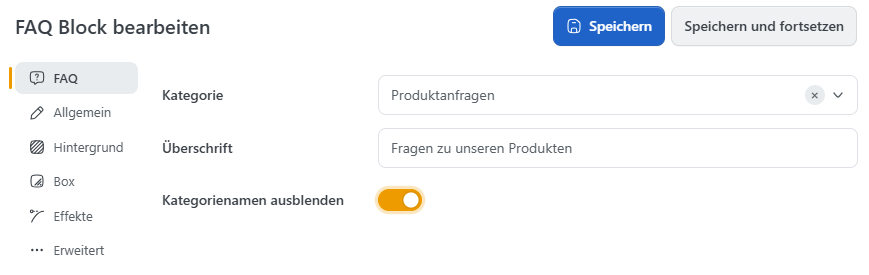
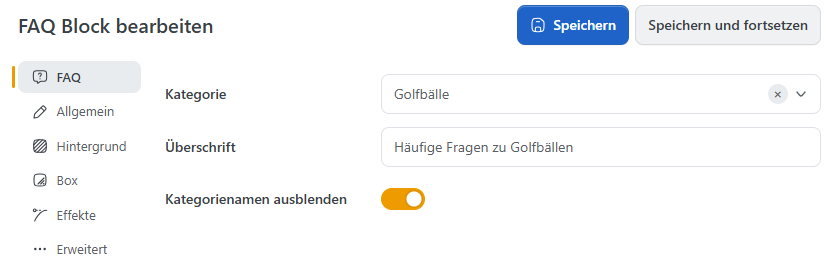
Update German FAQ documentation and screenshots

diff --git a/de/benutzer-handbuch/plugins/faq.md b/de/benutzer-handbuch/plugins/faq.md
@@ -1,58 +1,76 @@
 # FAQ
 
-Mit dem Plugin **FAQ** zeigen Sie häufig gestellte Fragen auf Produktdetailseiten oder in einer Story im **Page Builder**. Fragen und Antworten pflegen Sie zentral. Änderungen an einer Frage gelten überall, wo sie verwendet wird.
+Mit dem Plugin **FAQ** zeigen Sie häufig gestellte Fragen und Antworten auf Produktdetailseiten oder auf Seiten, die Sie mit dem **Page Builder** gestaltet haben. Fragen und Antworten pflegen Sie zentral. Wenn Sie eine Antwort ändern, wird sie überall aktualisiert, wo diese Frage verwendet wird.
 
-![FAQ-Tab auf der Produktdetailseite mit aufgeklappter Antwort](../../.gitbook/assets/module_faq_frontend_product.png)
+Allgemeine Fragen, etwa zur Auswahl von Golfausrüstung, können Sie einer Warengruppe zuordnen. Deren Produkte können diese Fragen übernehmen. Auch Fragen aus übergeordneten Warengruppen lassen sich übernehmen. Für ein bestimmtes Modell können Sie zusätzlich eigene Fragen am Produkt hinterlegen.
+
+![FAQ-Tab auf der Produktdetailseite der Tour Distance Golfbälle mit aufgeklappter Antwort.](../../.gitbook/assets/module_faq_frontend_product_overview.png)
 
 ## Fragen anlegen
 
-Öffnen Sie **CMS > FAQ**. Sie können die FAQ-Verwaltung auch über **Plugins > Plugins verwalten** öffnen. Das lizenzpflichtige Plugin **FAQ** muss installiert und freigeschaltet sein. Eine Anleitung finden Sie unter [Plugins installieren](plugins-installieren.md).
+Damit Sie Fragen anlegen können, benötigen Sie eine Lizenz für das Plugin **FAQ**. [Installieren](plugins-installieren.md) Sie das Plugin und schalten Sie es frei. Öffnen Sie anschließend **CMS > FAQ**. Alternativ erreichen Sie dieselbe Seite über **Plugins > Plugins verwalten** in der Konfiguration des FAQ-Plugins.
 
-1. Öffnen Sie **Kategorien** und klicken Sie auf **Neu**. Legen Sie eine **FAQ-Kategorie** an, etwa „Produktanfragen“. Schalten Sie **Ist aktiv** ein und speichern Sie.
-2. Wechseln Sie zu **Faqs** und klicken Sie auf **Neu…**. Wählen Sie im Feld **Kategorie** die FAQ-Kategorie aus. Geben Sie **Frage** und **Antwort** ein, schalten Sie **Ist aktiv** ein und speichern Sie.
+Legen Sie zuerst eine **FAQ-Kategorie** an. In einer FAQ-Kategorie wie „Golfbälle“ sammeln Sie Fragen zu einem Thema. Unter **Katalog > Warengruppen** organisieren Sie Ihre Produkte. Dort legen Sie fest, welche Fragen die Produkte einer Warengruppe übernehmen können.
 
-FAQ-Kategorien gruppieren Fragen nach Themen. Warengruppen gehören zum Produktkatalog und können FAQs an Produkte und untergeordnete Warengruppen weitergeben.
+1. Wechseln Sie unter **CMS > FAQ** zum Tab **Kategorien** und klicken Sie auf **Neu**. Geben Sie der FAQ-Kategorie einen Namen, schalten Sie **Ist aktiv** ein und klicken Sie auf **Speichern**.
 
-Über die **Anzeigereihenfolge** legen Sie fest, in welcher Reihenfolge die FAQ-Kategorien und die Fragen innerhalb einer Kategorie im Shop erscheinen. Kleinere Werte stehen zuerst. Namen, Fragen und Antworten können Sie für die eingerichteten [Shopsprachen](../allgemeine-konzepte/mit-mehreren-sprachen-arbeiten.md) pflegen.
+   ![FAQ-Kategorien in der zentralen FAQ-Verwaltung](../../.gitbook/assets/module_faq_categories.png)
 
-## FAQs auf einer Produktdetailseite anzeigen
+2. Wechseln Sie zum Tab **Faqs** und klicken Sie auf **Neu…**. Wählen Sie im Feld **Kategorie** die angelegte FAQ-Kategorie aus, geben Sie **Frage** und **Antwort** ein und schalten Sie **Ist aktiv** ein. Speichern Sie die Frage.
 
-Öffnen Sie unter **Katalog > Produkte** das gewünschte [Produkt](../../verwalten/katalog/produkte-verwalten/produkte-erstellen-und-bearbeiten.md) und wechseln Sie zum Tab **Faq**.
+Über die **Anzeigereihenfolge** legen Sie fest, in welcher Reihenfolge die FAQ-Kategorien und die Fragen innerhalb einer Kategorie im Shop erscheinen. Kleinere Zahlen stehen zuerst. Namen, Fragen und Antworten können Sie auch in [mehreren Sprachen](../allgemeine-konzepte/mit-mehreren-sprachen-arbeiten.md) pflegen.
 
-![FAQ-Einstellungen und zugeordnete Fragen im Produkt-Editor](../../.gitbook/assets/module_faq_product_tab_faq.png)
+## Anzeige
 
-- **FAQs auf der Produktseite anzeigen** schaltet den FAQ-Tab auf der Produktdetailseite ein, sobald mindestens eine anzeigbare Frage vorhanden ist.
-- **Zusätzlich FAQs aus Warengruppen übernehmen** ergänzt die direkt zugeordneten Fragen um FAQs aus den Warengruppen des Produkts. Gehört ein Produkt zu mehreren Warengruppen, erscheint jede Frage höchstens einmal.
+### Für Produkte
 
-Speichern Sie das Produkt, um Änderungen an den Schaltern zu übernehmen. Über **Vorschau** prüfen Sie, welche Fragen im Shop erscheinen.
+Öffnen Sie unter **Katalog > Produkte** das gewünschte [Produkt](../../verwalten/katalog/produkte-verwalten/produkte-erstellen-und-bearbeiten.md) und wechseln Sie zum Tab **Faq**. Dort können Sie [Fragen direkt zuordnen](#bearbeiten) und festlegen, ob das Produkt zusätzlich Fragen aus seinen Warengruppen übernimmt.
 
-## FAQs einer Warengruppe zuordnen
+![FAQ-Einstellungen und direkt zugeordnete Fragen im Produkt-Editor](../../.gitbook/assets/module_faq_product_tab_faq.png)
 
-Öffnen Sie unter **Katalog > Warengruppen** die gewünschte [Warengruppe](../../verwalten/katalog/warengruppen-organisieren.md) und wechseln Sie zum Tab **Faq**. Die Liste zeigt die Fragen, die dieser Warengruppe direkt zugeordnet sind.
+- Schalten Sie **FAQs auf der Produktseite anzeigen** ein. Der Tab erscheint im Shop, sobald für das Produkt mindestens eine aktive Frage aus einer aktiven FAQ-Kategorie verfügbar ist.
+- Schalten Sie **Zusätzlich FAQs aus Warengruppen übernehmen** ein, wenn auch Fragen aus den Warengruppen des Produkts erscheinen sollen. Ist dieselbe Frage mehrmals zugeordnet, wird sie nur einmal angezeigt.
 
-**FAQs übergeordneter Warengruppen übernehmen** ergänzt diese Fragen um FAQs aus höheren Ebenen. Beispiel: In **Uhren > Automatikuhren > Chronographen** kann **Chronographen** Fragen aus beiden übergeordneten Warengruppen übernehmen. Ist der Schalter bei **Automatikuhren** ausgeschaltet, werden über diesen Pfad nur noch deren eigene Fragen weitergegeben. Bei einer Warengruppe ohne übergeordnete Warengruppe erscheint der Schalter nicht. Speichern Sie die Warengruppe, um die Änderung zu übernehmen.
+Klicken Sie auf **Speichern**, damit die Schalter für die Produktdetailseite gelten. Öffnen Sie dann **Vorschau**. Dort können Sie im Tab **Faq** eine Frage anklicken, um die Antwort einzublenden.
 
-### Fragen zuordnen oder entfernen
+![FAQ-Tab auf der Produktdetailseite mit aufgeklappter Antwort](../../.gitbook/assets/module_faq_frontend_product.png)
 
-Diese Schritte gelten im FAQ-Tab eines Produkts und einer Warengruppe:
+### Für Warengruppen
 
-1. Klicken Sie auf **Vorhandene FAQs zuordnen…**. Über den Trichter können Sie die Liste nach **Frage** und **Kategorie** filtern.
-2. Markieren Sie die gewünschten Fragen und bestätigen Sie mit **Vorhandene FAQs zuordnen**.
+Fragen, die Sie einer Warengruppe zuordnen, erscheinen auf den Produktdetailseiten der zugehörigen Produkte, sofern diese Fragen aus Warengruppen übernehmen. Auf der Warengruppenseite im Shop wird kein FAQ-Bereich eingeblendet.
 
-Mit **Neu…** legen Sie eine Frage an und ordnen sie beim Speichern direkt zu. Zum Entfernen wählen Sie im Zeilenmenü **Zuordnung entfernen** oder markieren mehrere Fragen und klicken auf **Ausgewählte Zuordnungen entfernen**. Zuordnungen werden sofort gespeichert. Die Frage selbst bleibt beim Entfernen unter **CMS > FAQ** erhalten.
+Öffnen Sie unter **Katalog > Warengruppen** die gewünschte [Warengruppe](../../verwalten/katalog/warengruppen-organisieren.md) und wechseln Sie zum Tab **Faq**. Die Liste zeigt die Fragen, die Sie dieser Warengruppe direkt zugeordnet haben.
 
-## FAQs im Page Builder anzeigen
+Mit **FAQs übergeordneter Warengruppen übernehmen** ergänzen Sie diese Fragen um Fragen aus den darüberliegenden Warengruppen. Der Schalter erscheint nur, wenn die Warengruppe eine übergeordnete Warengruppe hat. Klicken Sie nach einer Änderung auf **Speichern**.
+
+**Beispiel:** Die Warengruppe „Golfbälle“ liegt unter „Golf & Sport“. Wenn „Golfbälle“ Fragen aus der übergeordneten Warengruppe übernimmt, können die Tour Distance Golfbälle auch Fragen aus „Golf & Sport“ anzeigen. Schalten Sie die Übernahme bei der Warengruppe „Golfbälle“ aus, entfallen die Fragen aus „Golf & Sport“. Fragen, die Sie der Warengruppe „Golfbälle“ direkt zugeordnet haben, können die Produkte weiterhin übernehmen.
+
+## Bearbeiten
+
+Im Tab **Faq** eines Produkts oder einer Warengruppe können Sie Fragen anlegen, zuordnen und Zuordnungen entfernen. Diese Änderungen werden sofort gespeichert. Geerbte Fragen sehen Sie in der Produktvorschau. In der Zuordnungsliste stehen nur die direkt zugeordneten Fragen.
+
+- **Neue Frage anlegen:** Klicken Sie auf **Neu…**, füllen Sie das Formular aus und speichern Sie. Die Frage erscheint in der zentralen FAQ-Verwaltung und ist dem Produkt oder der Warengruppe direkt zugeordnet.
+- **Vorhandene Fragen zuordnen:** Klicken Sie auf **Vorhandene FAQs zuordnen…**. Über den Trichter können Sie nach **Frage** und **Kategorie** filtern. Setzen Sie ein Häkchen bei den gewünschten Fragen und klicken Sie auf **Vorhandene FAQs zuordnen**.
+- **Zuordnungen entfernen:** Öffnen Sie bei einer Frage das Menü mit den drei Punkten und wählen Sie **Zuordnung entfernen**. Für mehrere Fragen setzen Sie die Häkchen und klicken auf **Ausgewählte Zuordnungen entfernen**. Die Fragen bleiben unter **CMS > FAQ** erhalten.
+
+## Page-Builder-Einbindung
+
+Mit dem FAQ-Block können Sie häufig gestellte Fragen auch auf einer Serviceseite zeigen. Dazu fügen Sie den Block in eine **Story** ein. Eine Story ist ein Inhalt, den Sie im Page Builder gestalten und im Shop anzeigen. Der Block verwendet Fragen aus der zentralen FAQ-Verwaltung. Die Fragen müssen keinem Produkt zugeordnet sein.
 
 1. Öffnen Sie unter **CMS > Page Builder** eine Story und fügen Sie den [Block **FAQ**](pagebuilder/blocks.md) ein.
-2. Wählen Sie unter **Kategorie** eine FAQ-Kategorie oder **Alle**. Legen Sie bei Bedarf eine eigene **Überschrift** fest. Mit **Kategorienamen ausblenden** blenden Sie die Namen der FAQ-Kategorien aus. Die eigene Überschrift bleibt sichtbar.
+2. Wählen Sie im Feld **Kategorie** ein Thema oder **Alle**. Im Feld **Überschrift** können Sie einen eigenen Titel eingeben. Mit **Kategorienamen ausblenden** blenden Sie die Namen der FAQ-Kategorien aus. Ihr eigener Titel bleibt sichtbar.
 3. Speichern Sie die Story und prüfen Sie den Block in der Vorschau. Damit er im Shop erscheint, [platzieren und veröffentlichen Sie die Story](pagebuilder.md#story-im-shop-platzieren).
 
 ![Einstellungen des FAQ-Blocks im Page Builder](../../.gitbook/assets/module_faq_pagebuilder_block.png)
 
-Unter **CMS > FAQ > Einstellungen** können Sie mit **Seiten-Navigation darstellen** eine seitliche Navigation zu den FAQ-Kategorien einblenden. Diese Einstellung gilt für die allgemeine FAQ-Ansicht, etwa im Page Builder. Sie lässt sich [pro Shop festlegen](../konfiguration/einstellungen/den-einstellungsbereich-festlegen.md).
+![FAQ-Block auf einer Shopseite mit aufgeklappter Antwort](../../.gitbook/assets/module_faq_pagebuilder_frontend.png)
+
+Unter **CMS > FAQ > Einstellungen** können Sie mit **Seiten-Navigation darstellen** im FAQ-Bereich eine seitliche Navigation zu den FAQ-Kategorien einblenden. Für den FAQ-Tab am Produkt gilt diese Einstellung nicht. Sie lässt sich [pro Shop festlegen](../konfiguration/einstellungen/den-einstellungsbereich-festlegen.md).
 
 ## Wenn eine FAQ am Produkt fehlt
 
-Prüfen Sie, ob **FAQs auf der Produktseite anzeigen** eingeschaltet und das Produkt gespeichert ist. Die Frage und ihre FAQ-Kategorie müssen aktiv sein. Bei übernommenen Fragen muss auch die beitragende Warengruppe für den Besucher im jeweiligen Shop sichtbar sein. Geerbte Fragen sehen Sie in der Produktvorschau. Die Zuordnungsliste im Admin zeigt nur die direkt zugeordneten Fragen.
+- Ist **FAQs auf der Produktseite anzeigen** eingeschaltet und das Produkt gespeichert?
+- Sind die Frage und ihre FAQ-Kategorie aktiv?
+- Soll die Frage aus einer Warengruppe kommen? Prüfen Sie, ob am Produkt **Zusätzlich FAQs aus Warengruppen übernehmen** eingeschaltet ist. Die Warengruppe, aus der die Frage kommt, muss für den Besucher im Shop sichtbar sein. Wenn die Frage einer übergeordneten Warengruppe zugeordnet ist, prüfen Sie auch die Übernahme in den Warengruppen darunter.
 
 {% include "../../.gitbook/includes/consultation_request_plugin.md" %}
